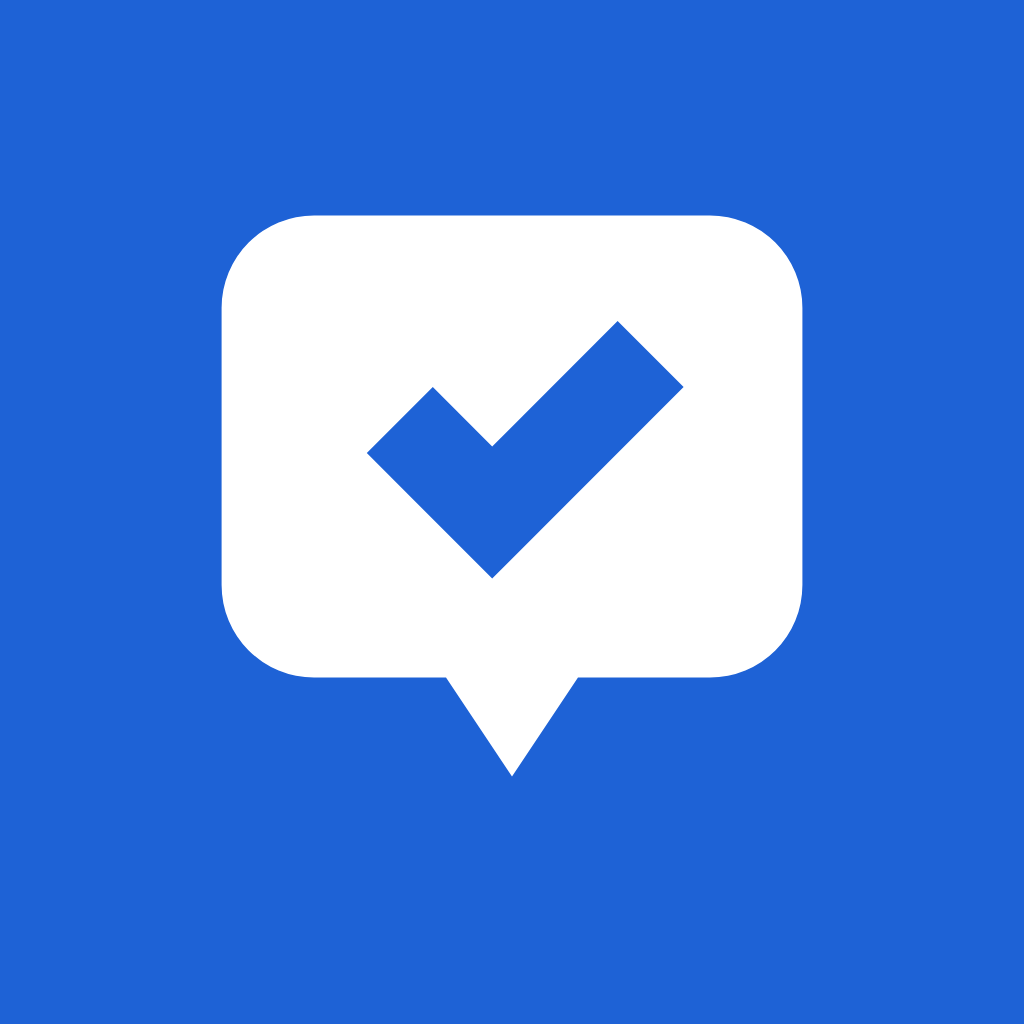
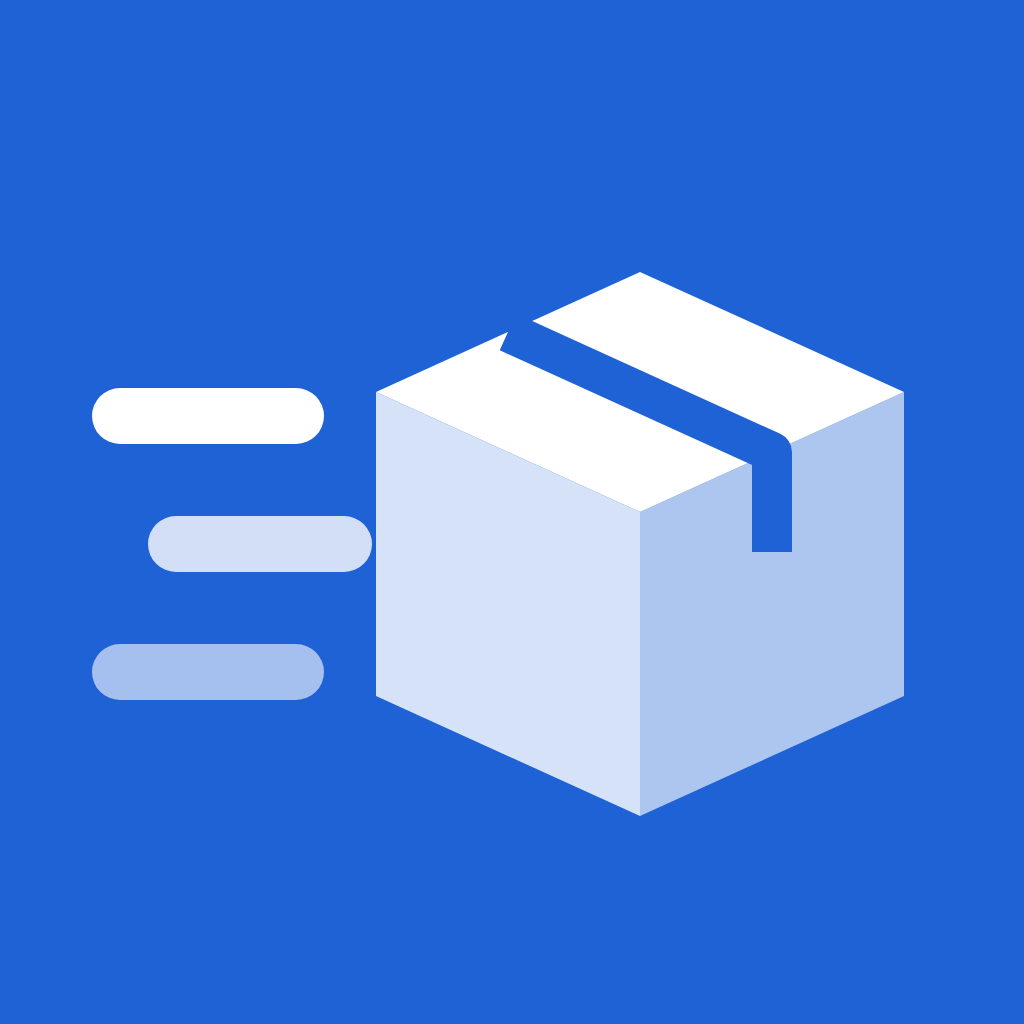
Kiliroute : icône colis express et nouveau nom
Claude-Session: https://claude.ai/code/session_01BU7imBwnEA3NC8yLt2FZvx

Changed region(s): [[0.0938, 0.1875, 0.9062, 0.8125]]

diff --git a/cap-colis/app.js b/cap-colis/app.js
@@ -1,4 +1,4 @@
-/* Kilivre : logique de l'application (sans framework). */
+/* Kiliroute : logique de l'application (sans framework). */
 (function () {
   'use strict';
 
@@ -112,6 +112,7 @@
   $('toastUndo').addEventListener('click', () => { $('toast').hidden = true; if (undoAction) undoAction(); undoAction = null; });
 
   // ---------- Animations (GSAP) : retours visuels aux gestes, rien de décoratif ----------
+  const SPLASH_ICON = `<g stroke="#fff" stroke-width="14" stroke-linecap="round"><path d="M30 104H74"/><path d="M44 136H86" opacity=".8"/><path d="M30 168H74" opacity=".6"/></g><g transform="translate(94 62)"><path d="M0 36 66 6 132 36 66 66Z" fill="#fff"/><path d="M0 36V112L66 142V66Z" fill="#fff" opacity=".82"/><path d="M132 36V112L66 142V66Z" fill="#fff" opacity=".64"/><path d="M33 21 99 51V76" fill="none" stroke="#1E62D6" stroke-width="10" stroke-linejoin="round"/></g>`;
   const anim = {
     on: () => !!window.gsap && !window.matchMedia('(prefers-reduced-motion: reduce)').matches,
     /** Ouverture : la pastille arrive, la coche se dessine, l'écran s'efface (moins d'une seconde). */
@@ -121,7 +122,7 @@
         const el = document.createElement('div');
         el.className = 'splash';
         el.setAttribute('aria-hidden', 'true');
-        el.innerHTML = '<div class="splash-in"><div class="splash-name">Kilivre</div><div class="splash-by">produit par Kilian.B</div></div>';
+        el.innerHTML = '<div class="splash-in"><div class="splash-name">Kiliroute</div><div class="splash-by">produit par Kilian.B</div></div>';
         document.body.appendChild(el);
         setTimeout(() => el.remove(), 1100);
         return;
@@ -129,15 +130,12 @@
       const el = document.createElement('div');
       el.className = 'splash';
       el.setAttribute('aria-hidden', 'true');
-      el.innerHTML = `<div class="splash-in"><svg viewBox="0 0 256 256"><path class="pill" d="${'M68 44H188A28 28 0 0 1 216 72V156A28 28 0 0 1 188 184H148L128 214 108 184H68A28 28 0 0 1 40 156V72A28 28 0 0 1 68 44Z'}"/><path class="tick" d="M93 105 121 133 171 83"/></svg><div class="splash-name">Kilivre</div><div class="splash-by">produit par Kilian.B</div></div>`;
+      el.innerHTML = `<div class="splash-in"><svg class="splash-icon" viewBox="0 0 256 256">${SPLASH_ICON}</svg><div class="splash-name">Kiliroute</div><div class="splash-by">produit par Kilian.B</div></div>`;
       document.body.appendChild(el);
-      const tick = el.querySelector('.tick');
-      const len = tick.getTotalLength();
-      gsap.set(tick, { strokeDasharray: len, strokeDashoffset: len });
       gsap.timeline({ onComplete: () => el.remove() })
-        .from(el.querySelector('svg'), { scale: 0.6, autoAlpha: 0, duration: 0.35, ease: 'back.out(2)', transformOrigin: '50% 50%' })
-        .to(tick, { strokeDashoffset: 0, duration: 0.3, ease: 'power2.out' }, '-=0.05')
-        .from(el.querySelector('.splash-name'), { y: 10, autoAlpha: 0, duration: 0.25 }, '<')
+        .from(el.querySelector('svg g:last-child'), { x: 40, autoAlpha: 0, duration: 0.4, ease: 'back.out(1.8)' })
+        .from(el.querySelectorAll('svg g:first-child path'), { x: -30, autoAlpha: 0, duration: 0.3, stagger: 0.06, ease: 'power2.out' }, '-=0.2')
+        .from(el.querySelector('.splash-name'), { y: 10, autoAlpha: 0, duration: 0.25 }, '-=0.1')
         .from(el.querySelector('.splash-by'), { autoAlpha: 0, duration: 0.3 }, '-=0.05')
         .to(el, { autoAlpha: 0, duration: 0.3, ease: 'power1.in' }, '+=0.5');
       // filet de sécurité : l'écran d'ouverture ne bloque jamais l'app
@@ -855,7 +853,7 @@
       document.body.appendChild(a); a.click(); a.remove();
     } else {
       window.location.href = url; // ouvre l'application (Waze, Google Maps)
-      // Si l'app n'est pas installée, l'iPhone reste sur Kilivre : on passe par le lien web.
+      // Si l'app n'est pas installée, l'iPhone reste sur Kiliroute : on passe par le lien web.
       const web = state.settings.navApp === 'google'
         ? `https://www.google.com/maps/dir/?api=1&destination=${s.lat},${s.lon}&travelmode=driving`
         : `https://waze.com/ul?ll=${s.lat},${s.lon}&navigate=yes`;
@@ -1930,7 +1928,7 @@
   }
   const NATIVE = !!(window.Capacitor && window.Capacitor.isNativePlatform && window.Capacitor.isNativePlatform());
   const plug = (n) => (NATIVE && window.Capacitor.Plugins ? window.Capacitor.Plugins[n] : null);
-  /** L'écran ne se met jamais en veille tant que Kilivre est ouverte. */
+  /** L'écran ne se met jamais en veille tant que Kiliroute est ouverte. */
   async function keepScreenOn() {
     const KA = plug('KeepAwake');
     if (KA) { try { await KA.keepAwake(); } catch (e) { /* module absent */ } return; }
@@ -1950,7 +1948,7 @@
     const BG = plug('BackgroundGeolocation');
     if (BG) {
       const w = { native: true, id: null };
-      BG.addWatcher({ backgroundTitle: 'Kilivre : guidage en cours', backgroundMessage: 'Kilivre suit votre tournée.', requestPermissions: true, stale: false, distanceFilter: 0 }, (loc, err) => {
+      BG.addWatcher({ backgroundTitle: 'Kiliroute : guidage en cours', backgroundMessage: 'Kiliroute suit votre tournée.', requestPermissions: true, stale: false, distanceFilter: 0 }, (loc, err) => {
         if (err) { onErr({ code: err.code === 'NOT_AUTHORIZED' ? 1 : 2 }); return; }
         onPos({ coords: { latitude: loc.latitude, longitude: loc.longitude, speed: loc.speed, heading: loc.bearing, accuracy: loc.accuracy } });
       }).then((id) => { w.id = id; });

diff --git a/cap-colis/index.html b/cap-colis/index.html
@@ -3,13 +3,13 @@
 <head>
 <meta charset="utf-8">
 <meta name="viewport" content="width=device-width, initial-scale=1, viewport-fit=cover">
-<title>Kilivre</title>
+<title>Kiliroute</title>
 <meta name="description" content="Planificateur de tournée pour livreur de colis : scannez le manifeste, optimisez l'ordre de passage, livrez arrêt par arrêt avec Waze.">
 <meta name="theme-color" content="#1E62D6">
 <meta name="apple-mobile-web-app-capable" content="yes">
 <meta name="mobile-web-app-capable" content="yes">
 <meta name="apple-mobile-web-app-status-bar-style" content="black-translucent">
-<meta name="apple-mobile-web-app-title" content="Kilivre">
+<meta name="apple-mobile-web-app-title" content="Kiliroute">
 <meta name="format-detection" content="telephone=no">
 <link rel="manifest" href="manifest.webmanifest">
 <link rel="icon" href="icon.svg" type="image/svg+xml">
@@ -239,11 +239,11 @@
     <button class="icon-btn flat" id="drawerSettings" type="button" aria-label="Réglages"><svg viewBox="0 0 24 24" aria-hidden="true"><circle cx="12" cy="12" r="3"/><path d="M19.4 15a1.7 1.7 0 0 0 .3 1.8l.1.1a2 2 0 1 1-2.8 2.8l-.1-.1a1.7 1.7 0 0 0-1.8-.3 1.7 1.7 0 0 0-1 1.5V21a2 2 0 1 1-4 0v-.1a1.7 1.7 0 0 0-1.1-1.5 1.7 1.7 0 0 0-1.8.3l-.1.1a2 2 0 1 1-2.8-2.8l.1-.1a1.7 1.7 0 0 0 .3-1.8 1.7 1.7 0 0 0-1.5-1H3a2 2 0 1 1 0-4h.1a1.7 1.7 0 0 0 1.5-1.1 1.7 1.7 0 0 0-.3-1.8l-.1-.1a2 2 0 1 1 2.8-2.8l.1.1a1.7 1.7 0 0 0 1.8.3H9a1.7 1.7 0 0 0 1-1.5V3a2 2 0 1 1 4 0v.1a1.7 1.7 0 0 0 1 1.5 1.7 1.7 0 0 0 1.8-.3l.1-.1a2 2 0 1 1 2.8 2.8l-.1.1a1.7 1.7 0 0 0-.3 1.8V9a1.7 1.7 0 0 0 1.5 1H21a2 2 0 1 1 0 4h-.1a1.7 1.7 0 0 0-1.5 1z"/></svg></button>
   </div>
   <div class="drawer-brand">
-    <span class="brand-badge" aria-hidden="true"><svg viewBox="0 0 256 256"><path fill="#fff" fill-rule="evenodd" d="M68 44H188A28 28 0 0 1 216 72V156A28 28 0 0 1 188 184H148L128 214 108 184H68A28 28 0 0 1 40 156V72A28 28 0 0 1 68 44ZM84 116 104 96 122 114 160 76 180 96 122 154Z"/></svg></span>
-    <div><b>Kilivre</b><small id="drawerStats">Tournées enregistrées sur ce téléphone</small></div>
+    <span class="brand-badge" aria-hidden="true"><svg viewBox="0 0 256 256"><g stroke="#fff" stroke-width="14" stroke-linecap="round"><path d="M30 104H74"/><path d="M44 136H86" opacity=".8"/><path d="M30 168H74" opacity=".6"/></g><g transform="translate(94 62)"><path d="M0 36 66 6 132 36 66 66Z" fill="#fff"/><path d="M0 36V112L66 142V66Z" fill="#fff" opacity=".82"/><path d="M132 36V112L66 142V66Z" fill="#fff" opacity=".64"/><path d="M33 21 99 51V76" fill="none" stroke="#1E62D6" stroke-width="10" stroke-linejoin="round"/></g></svg></span>
+    <div><b>Kiliroute</b><small id="drawerStats">Tournées enregistrées sur ce téléphone</small></div>
   </div>
   <div class="drawer-list" id="tourList"></div>
-  <p class="drawer-by">Kilivre · produit par Kilian.B</p>
+  <p class="drawer-by">Kiliroute · produit par Kilian.B</p>
   <div class="drawer-foot">
     <button class="btn primary wide" id="newTour" type="button"><svg viewBox="0 0 24 24" aria-hidden="true"><path d="M12 5v14M5 12h14"/></svg>Créer un trajet</button>
   </div>
@@ -264,7 +264,7 @@
 
 <dialog id="helpDialog" class="dialog">
   <form method="dialog">
-    <h2>Utiliser Kilivre</h2>
+    <h2>Utiliser Kiliroute</h2>
     <ol class="help-list">
       <li><b>Ajoutez vos arrêts.</b> Scannez la liste du terminal ou les étiquettes, dictez une adresse, tapez-la ou touchez la carte.</li>
       <li><b>Optimisez.</b> L'app calcule l'ordre de passage et l'heure de fin, à 1 minute par arrêt.</li>
@@ -272,7 +272,7 @@
       <li><b>Terminez.</b> « Marquer le trajet comme terminé », puis exportez le bilan.</li>
     </ol>
     <p class="hint">Vos tournées restent sur ce téléphone. Retrouvez-les dans le menu ≡.</p>
-    <p class="hint">Kilivre, produit par Kilian.B</p>
+    <p class="hint">Kiliroute, produit par Kilian.B</p>
     <div class="dialog-actions"><span class="spacer"></span><button class="btn primary" value="ok">Compris</button></div>
   </form>
 </dialog>

diff --git a/cap-colis/style.css b/cap-colis/style.css
@@ -541,3 +541,6 @@ body.navigating .toast { top: calc(env(safe-area-inset-top, 0px) + 150px); }
 .shot span { position: absolute; top: 2px; right: 4px; color: #fff; font-size: 18px; text-shadow: 0 1px 3px #000; }
 .f-city { display: flex; align-items: center; gap: 8px; font-size: .9rem; color: var(--muted); }
 .f-city select { flex: 1; min-height: 40px; padding: 6px 10px; border: 1px solid var(--line); border-radius: 10px; background: var(--surface-2); color: var(--ink); font: inherit; }
+.splash .splash-icon { width: 150px; height: 150px; border-radius: 34px; background: rgba(255,255,255,.12); }
+.brand-badge svg path, .brand-badge svg g { stroke-width: inherit; }
+.splash-icon, .brand-badge svg { stroke: none; }

diff --git a/cap-colis/sw.js b/cap-colis/sw.js
@@ -1,6 +1,6 @@
 // Service worker : garde l'application en cache pour l'ouvrir sans réseau.
 // Les adresses, itinéraires et fonds de carte passent toujours par le réseau.
-const CACHE = 'cap-colis-v5';
+const CACHE = 'cap-colis-v6';
 const SHELL = ['./', 'index.html', 'style.css', 'app.js', 'optimizer.js', 'scan.js', 'postcodes-be.js', 'manifest.webmanifest',
   'icon.svg', 'favicon-32.png', 'icon-180.png', 'icon-192.png', 'icon-512.png',
   'https://cdnjs.cloudflare.com/ajax/libs/gsap/3.12.5/gsap.min.js',

diff --git a/cap-colis/postcodes-be.js b/cap-colis/postcodes-be.js
@@ -1,5 +1,5 @@
 /*
- * Kilivre : codes postaux belges de la région de Charleroi et alentours → localités.
+ * Kiliroute : codes postaux belges de la région de Charleroi et alentours → localités.
  * La première localité est la commune (choix par défaut quand la ville manque).
  * À compléter si vous livrez ailleurs.
  */

diff --git a/cap-colis/README.md b/cap-colis/README.md
@@ -1,6 +1,6 @@
-# Kilivre
+# Kiliroute
 
-Nom : Kilivre, de « Kilian » et « livre ». Vidéo de présentation : `brand/kilivre-presentation.mp4`.
+Nom : Kiliroute, de « Kilian » et « route ». Vidéo de présentation : `brand/kilivre-presentation.mp4`.
 
 Application de tournée pour livreur de colis, pensée pour l'iPhone (testée au format iPhone 17 Pro Max). Vous scannez le manifeste, elle calcule l'ordre de passage et l'heure de fin, puis Waze vous guide d'un arrêt à l'autre.
 
@@ -23,7 +23,7 @@ Application de tournée pour livreur de colis, pensée pour l'iPhone (testée au
 - Vue satellite (par défaut) : photos aériennes officielles NGI (Belgique) et IGN (France), noms de rues par-dessus ; bouton Plan / Sat.
 - GPS sans retard : la flèche suit le cap réel (GPS, déplacement, boussole) et glisse entre deux positions ; un demi-tour sur la même rue relance l'itinéraire tout de suite. Conseil « Demi-tour conseillé : X min de gagnées » quand faire demi-tour est plus rapide.
 - Écran toujours allumé. App native (.ipa) : guidage même écran verrouillé ou en arrière-plan (localisation « Toujours »).
-- Démarrage : « Kilivre, produit par Kilian.B ».
+- Démarrage : « Kiliroute, produit par Kilian.B ».
 - « Passer l'optimisation » : la tournée démarre dans votre ordre de saisie, avec les heures calculées.
 - Adresse ajoutée en cours de tournée (saisie, voix, carte, scan) : elle se place à l'endroit où elle rallonge le moins le trajet, après l'arrêt vers lequel vous roulez.
 - Radars fixes (OpenStreetMap, mis à jour par la communauté, gardés 24 h sur le téléphone) : pastille rouge avec la limite, alerte vocale à 500 m, compteur de vitesse qui passe au rouge au-dessus de la limite. Les signalements en direct de Waze (police, radars mobiles) restent dans Waze : Waze ne les partage pas.
@@ -48,10 +48,10 @@ Vos données restent sur le téléphone, sans compte à créer.
 2. Ouvrez l'adresse dans **Safari** sur l'iPhone.
 3. Bouton Partager, puis **Sur l'écran d'accueil**.
 
-L'icône Kilivre arrive sur l'écran d'accueil et s'ouvre en plein écran, sans barre Safari. L'app fonctionne ensuite hors ligne, sauf la recherche d'adresses, les itinéraires et le fond de carte.
+L'icône Kiliroute arrive sur l'écran d'accueil et s'ouvre en plein écran, sans barre Safari. L'app fonctionne ensuite hors ligne, sauf la recherche d'adresses, les itinéraires et le fond de carte.
 
 ### Option 2 : l'app native (fichier .ipa)
-À chaque modification, GitHub Actions compile l'app iOS sur un Mac (workflow `Kilivre iOS`) et publie `CapColis-non-signe.ipa` dans les artefacts du run.
+À chaque modification, GitHub Actions compile l'app iOS sur un Mac (workflow `Kiliroute iOS`) et publie `CapColis-non-signe.ipa` dans les artefacts du run.
 
 Apple interdit d'installer une app non signée. Deux façons de la signer :
 - **Gratuit** : Sideloadly ou AltStore sur un ordinateur, avec votre identifiant Apple. Apple limite cette signature à 7 jours ; il faut la renouveler ensuite.

diff --git a/cap-colis/brand/README.md b/cap-colis/brand/README.md
@@ -1,4 +1,4 @@
-# Kilivre : logo et règles d'usage
+# Kiliroute : logo et règles d'usage
 
 ## L'idée
 La pastille d'arrêt de la carte, cochée : le colis est livré. Le livreur voit cette forme toute la journée dans l'app, le logo la reprend.
